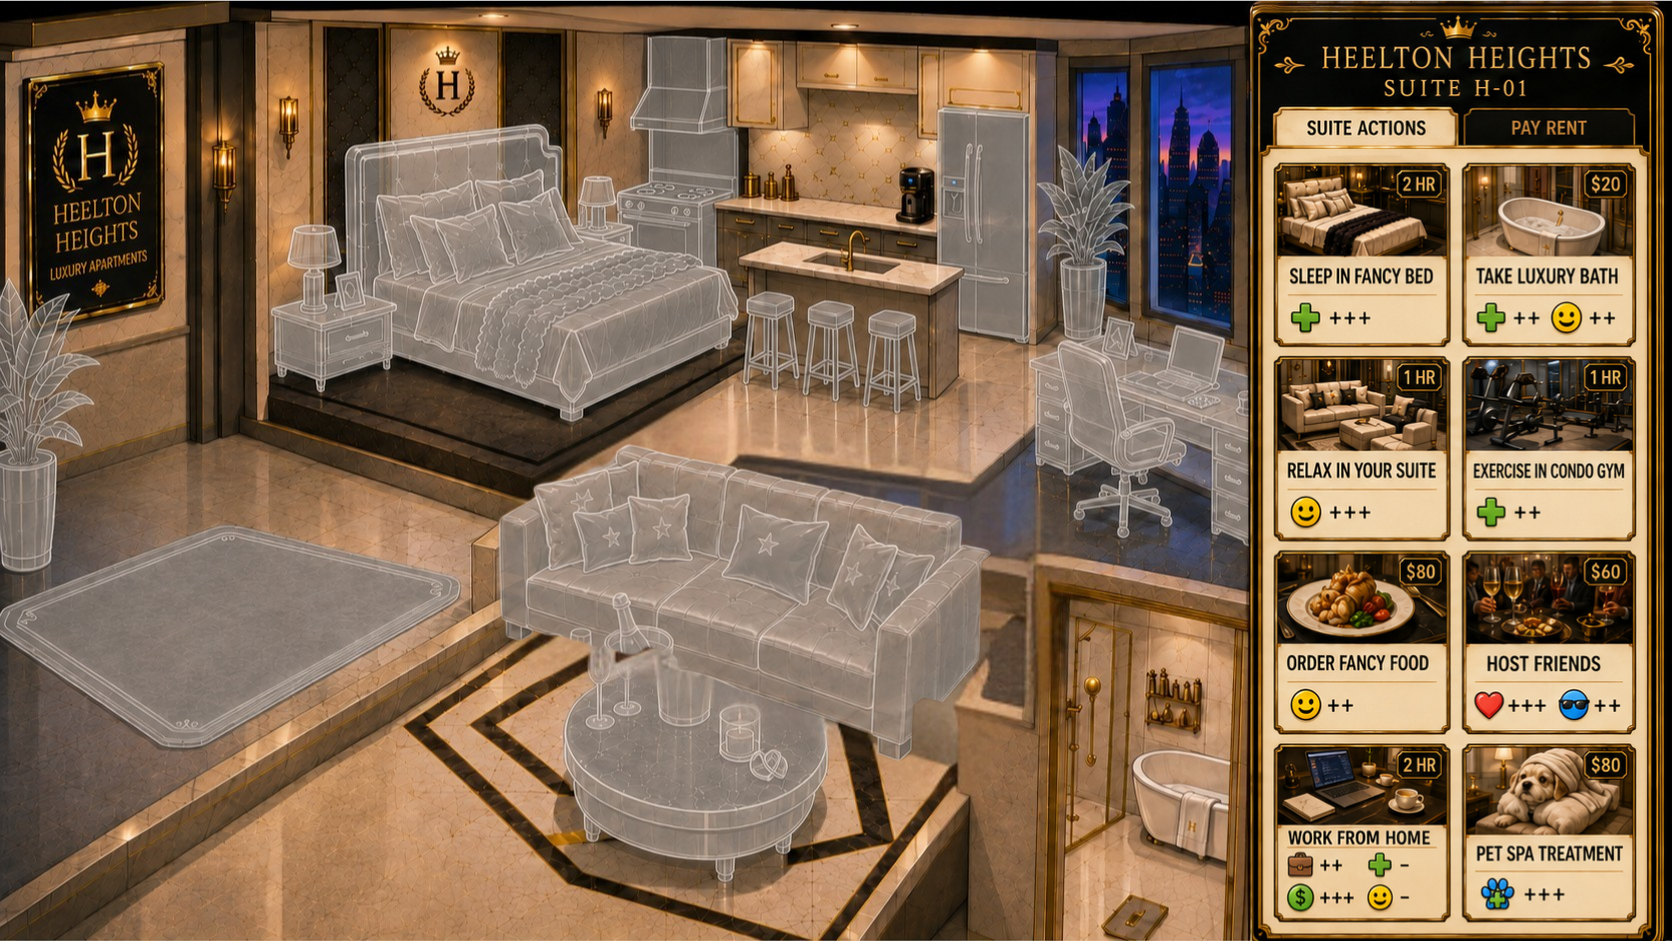
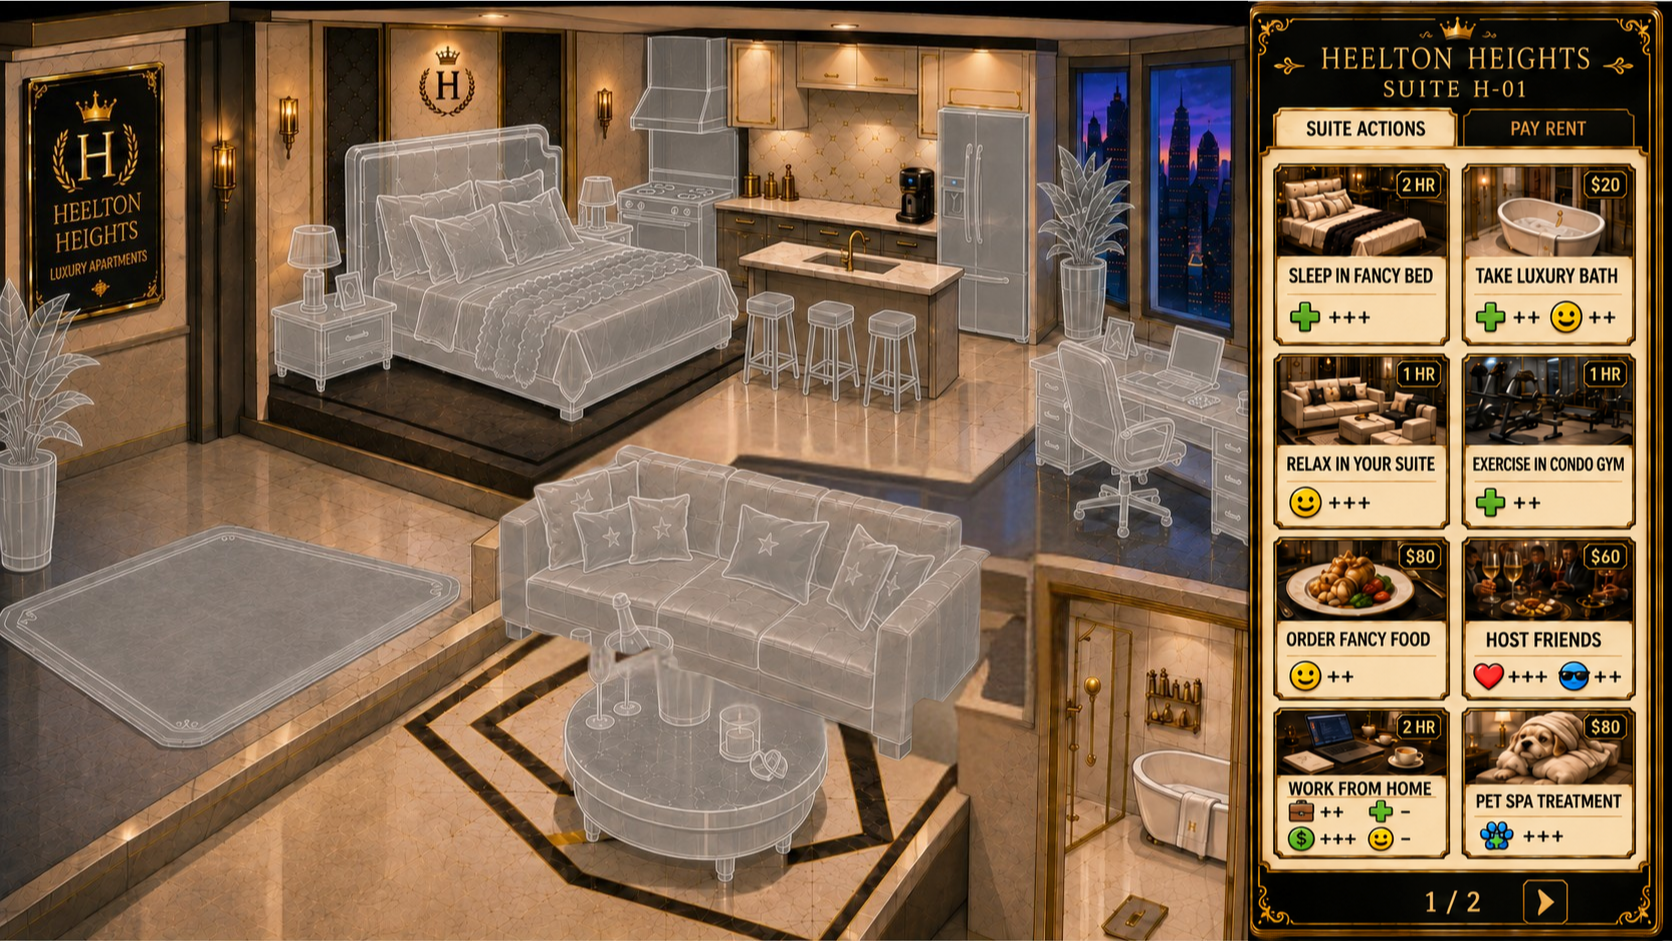
Heelton suite: new painted menu on both rooms, Play With Pet on page 2
The repainted menu panel was cropped out of the supplied art and composited
onto the existing bedroom and lounge images, so the aligned furniture
overlays still work. Page 1 keeps the eight suite actions; page 2 carries
the new painted PLAY WITH PET card; the panel's own gold arrows flip rooms.

Changed region(s): [[0.7464, 0.0, 0.9952, 1.0]]

diff --git a/assets/data/scene_visuals.js b/assets/data/scene_visuals.js
@@ -153,42 +153,35 @@
   // Heelton Heights has two navigable rooms. The bedroom view was supplied
   // without its arrow, so its only live arrow receives a visible CSS treatment.
   PAGES.luxury.tabBar = [
-    { tab: "suite", box: [76.0, 11.5, 11.0, 4.7] },
-    { tab: "rent", box: [87.0, 11.5, 11.0, 4.7] }
+    { tab: "suite", box: [75.9, 11.8, 11.2, 3.8] },
+    { tab: "rent", box: [87.2, 11.8, 10.7, 3.8] }
   ];
+  // Heelton suite (2026-09-17 repaint): the same painted menu panel sits on both
+  // rooms. Page 1 (bedroom) holds the eight suite actions, page 2 (lounge) holds
+  // Play With Pet, and the panel's own gold arrows flip between them.
   var luxuryBedroomActions = [
-    { a: "A009", box: [75.3, 17.3, 12.1, 19.6] },
-    { a: "A010", box: [87.6, 17.3, 11.6, 19.6] },
-    { a: "A011", box: [75.3, 37.8, 12.1, 19.7] },
-    { a: "A012", box: [87.6, 37.8, 11.6, 19.7] },
-    { a: "A013", box: [75.3, 58.5, 12.1, 19.5] },
-    { a: "A014", box: [87.6, 58.5, 11.6, 19.5] },
-    { a: "A015", box: [75.3, 79.0, 12.1, 19.0] },
-    { a: "A016", box: [87.6, 79.0, 11.6, 19.0] }
+    { a: "A009", box: [76.2, 16.5, 10.3, 19.4] },
+    { a: "A010", box: [87.2, 16.5, 10.7, 19.4] },
+    { a: "A011", box: [76.2, 36.9, 10.3, 18.8] },
+    { a: "A012", box: [87.2, 36.9, 10.7, 18.8] },
+    { a: "A013", box: [76.2, 56.8, 10.3, 18.0] },
+    { a: "A014", box: [87.2, 56.8, 10.7, 18.0] },
+    { a: "A015", box: [76.2, 75.7, 10.3, 15.3] },
+    { a: "A016", box: [87.2, 75.7, 10.7, 15.3] }
   ];
-  var luxuryLoungeActions = [
-    { a: "A009", box: [75.8, 17.3, 12.0, 19.6] },
-    { a: "A010", box: [87.8, 17.3, 11.6, 19.6] },
-    { a: "A011", box: [75.8, 37.8, 12.0, 19.7] },
-    { a: "A012", box: [87.8, 37.8, 11.6, 19.7] },
-    { a: "A013", box: [75.8, 58.5, 12.0, 19.5] },
-    { a: "A014", box: [87.8, 58.5, 11.6, 19.5] },
-    { a: "A015", box: [75.8, 79.0, 12.0, 19.0] },
-    { a: "A016", box: [87.8, 79.0, 11.6, 19.0] }
-  ];
+  var SUITE_ARROWS = { prev: [79.5, 92.2, 2.6, 4.8], next: [91.5, 92.2, 2.6, 4.8] };
   PAGES.luxury.tabs[0].pages = [
     {
       img: V3 + "heelton/bedroom_empty.png",
       homeLayer: "luxuryBedroom",
-      arrows: { prev: [0, 0, 0, 0], next: [1.15, 19.4, 5.25, 9.2] },
-      visibleNextArrow: true,
+      arrows: { prev: [0, 0, 0, 0], next: SUITE_ARROWS.next },
       hotspots: luxuryBedroomActions.map(function (h) { return { a: h.a, box: h.box.slice() }; })
     },
     {
       img: V3 + "heelton/lounge_empty.png",
       homeLayer: "luxuryLounge",
-      arrows: { prev: [1.15, 19.4, 5.25, 9.2], next: [0, 0, 0, 0] },
-      hotspots: luxuryLoungeActions.map(function (h) { return { a: h.a, box: h.box.slice() }; })
+      arrows: { prev: SUITE_ARROWS.prev, next: [0, 0, 0, 0] },
+      hotspots: [{ a: "X014", box: [76.2, 16.5, 10.3, 19.4] }]
     }
   ];
   PAGES.luxury.tabs[1].pages[0].img = V3 + "heelton/rent_office.png";

diff --git a/test/playtest_v5.js b/test/playtest_v5.js
@@ -148,12 +148,19 @@ function check(name, cond, detail) {
     after.s.critical - before.s.critical >= 1 && /Desk/.test(log) && /Ergonomic Chair/.test(log), log);
   await set("function (p) { p.tu = 40; }");
   before = await stats();
-  var heeltonPainted = await page.evaluate(function () { return !!document.querySelector("#paint-layer .paint-btn[data-a='X014']"); });
-  await clickMore("Play With Pet");                // Heelton: only in the More drawer (not painted)
+  // Play With Pet is painted on suite page 2 (2026-09-17 repaint)
+  await page.evaluate(function () { document.querySelector("#paint-layer .nav-btn.next").click(); });
+  await new Promise(function (r) { setTimeout(r, 800); });
+  var p2ids = await page.$$eval("#paint-layer .paint-btn", function (bs) { return bs.map(function (b) { return b.dataset.a; }); });
+  check("suite page 2 holds Play With Pet", p2ids.join(",") === "X014", p2ids.join(","));
+  await clickAction("X014");
   after = await stats(); log = (await lastLog(1))[0];
   check("Heelton Play With Pet fires pet fixtures", /Pet Bed/.test(log) && /Pet Toys/.test(log), log);
-  check("NOTE: Heelton Play With Pet has no painted button (More drawer only)", !heeltonPainted, "art item");
-  await openScene("luxury");
+  await page.evaluate(function () { document.querySelector("#paint-layer .nav-btn.prev").click(); });
+  await new Promise(function (r) { setTimeout(r, 800); });
+  var backIds = await page.$$eval("#paint-layer .paint-btn", function (bs) { return bs.map(function (b) { return b.dataset.a; }); });
+  check("the menu arrows flip between the two suite rooms", backIds.indexOf("A009") !== -1, backIds.join(","));
+  await set("function (p) { p.tu = 40; }");
   await clickAction("A009");                       // Sleep in Fancy Bed
   log = (await lastLog(1))[0];
   check("luxury sleep uses Premium Bed (+3) only", /Premium Bed/.test(log) && !/Nice Bed/.test(log), log);

diff --git a/test/scene_visuals.js b/test/scene_visuals.js
@@ -30,10 +30,13 @@ assert.deepStrictEqual(Array.from(pages.lowCost.tabs[0].pages[0].hotspots, h => 
 assert.strictEqual(pages.luxury.tabs[0].pages.length, 2, "Heelton must expose both rooms");
 assert.strictEqual(pages.luxury.tabs[0].pages[0].homeLayer, "luxuryBedroom");
 assert.strictEqual(pages.luxury.tabs[0].pages[1].homeLayer, "luxuryLounge");
-assert.strictEqual(pages.luxury.tabs[0].pages[0].visibleNextArrow, true);
-pages.luxury.tabs[0].pages.forEach(page => {
-  assert.deepStrictEqual(Array.from(page.hotspots, h => h.a), ["A009", "A010", "A011", "A012", "A013", "A014", "A015", "A016"]);
-});
+// 2026-09-17 repaint: page 1 (bedroom) holds the suite actions, page 2 (lounge)
+// holds Play With Pet, and the menu's own painted arrows flip between them
+assert.deepStrictEqual(Array.from(pages.luxury.tabs[0].pages[0].hotspots, h => h.a),
+  ["A009", "A010", "A011", "A012", "A013", "A014", "A015", "A016"]);
+assert.deepStrictEqual(Array.from(pages.luxury.tabs[0].pages[1].hotspots, h => h.a), ["X014"]);
+assert.ok(pages.luxury.tabs[0].pages[0].arrows.next[2] > 0 && pages.luxury.tabs[0].pages[1].arrows.prev[2] > 0,
+  "both rooms need a working page arrow");
 assert.strictEqual(pages.university.tabs[0].pages.length, 2);
 assert.deepStrictEqual(Array.from(pages.university.tabs[0].pages[1].hotspots, h => h.a), ["A073", "A074", "A069"]);
 assert.strictEqual(pages.airport.tabs[0].pages.length, 2);

diff --git a/test/menu_alignment_ui.js b/test/menu_alignment_ui.js
@@ -43,7 +43,7 @@ var URL = process.env.PP_URL || "http://localhost:8123/index.html";
   await open("luxury");
   var luxury = await buttons();
   if (luxury.length !== 8 || new Set(luxury.map(function (r) { return r.id; })).size !== 8 ||
-      !boxEq(find(luxury, "A015").box, ["75.3%","79%","12.1%","19%"])) throw new Error("Heelton grid: " + JSON.stringify(luxury));
+      !boxEq(find(luxury, "A015").box, ["76.2%","75.7%","10.3%","15.3%"])) throw new Error("Heelton grid: " + JSON.stringify(luxury));
 
   await open("mall");
   var mall = await buttons(), mallWork = find(mall, "A118");
